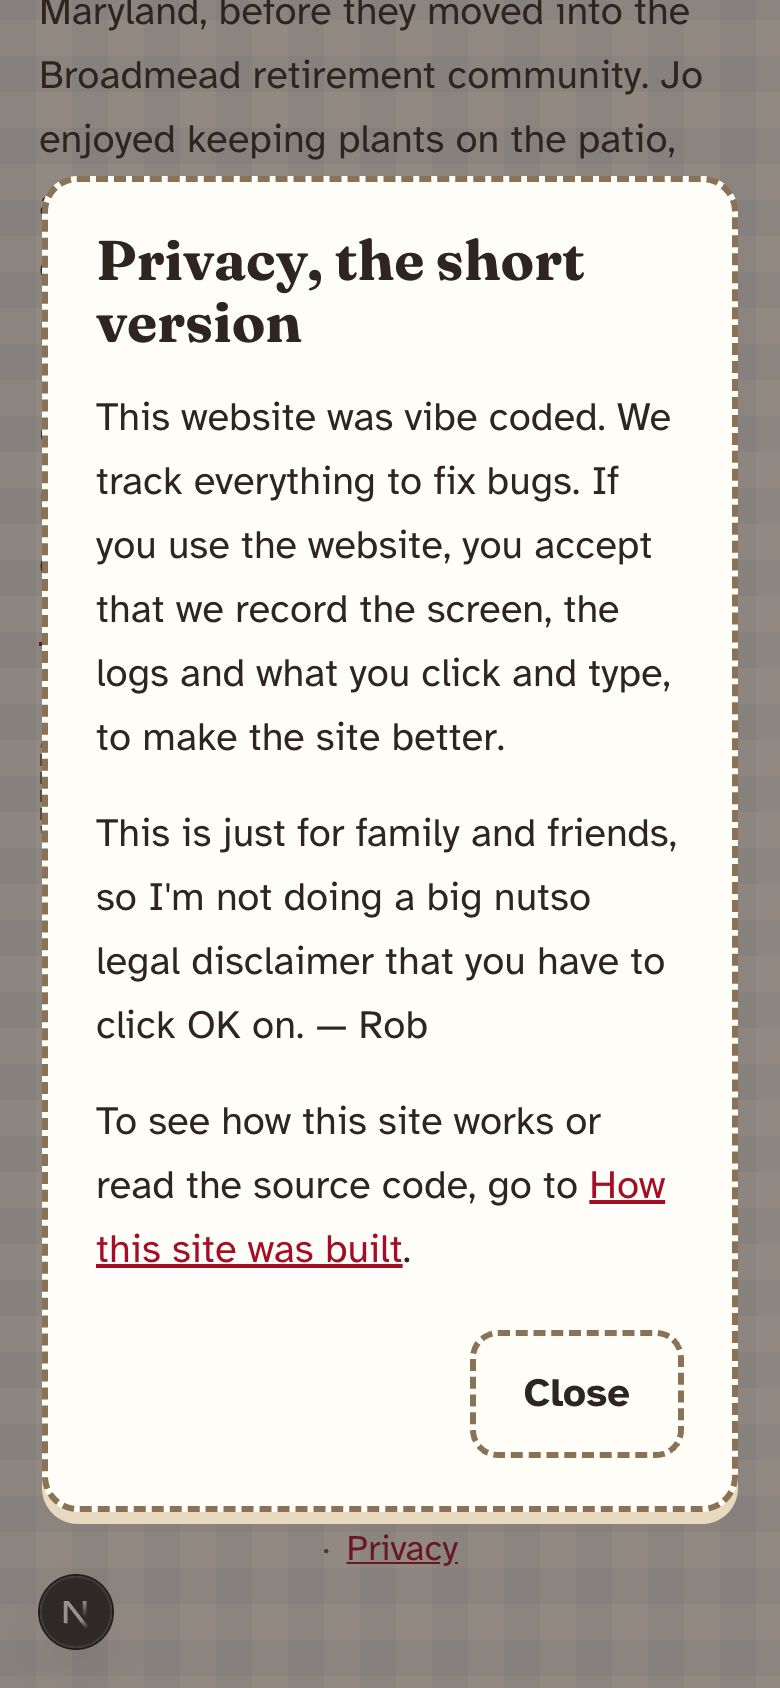
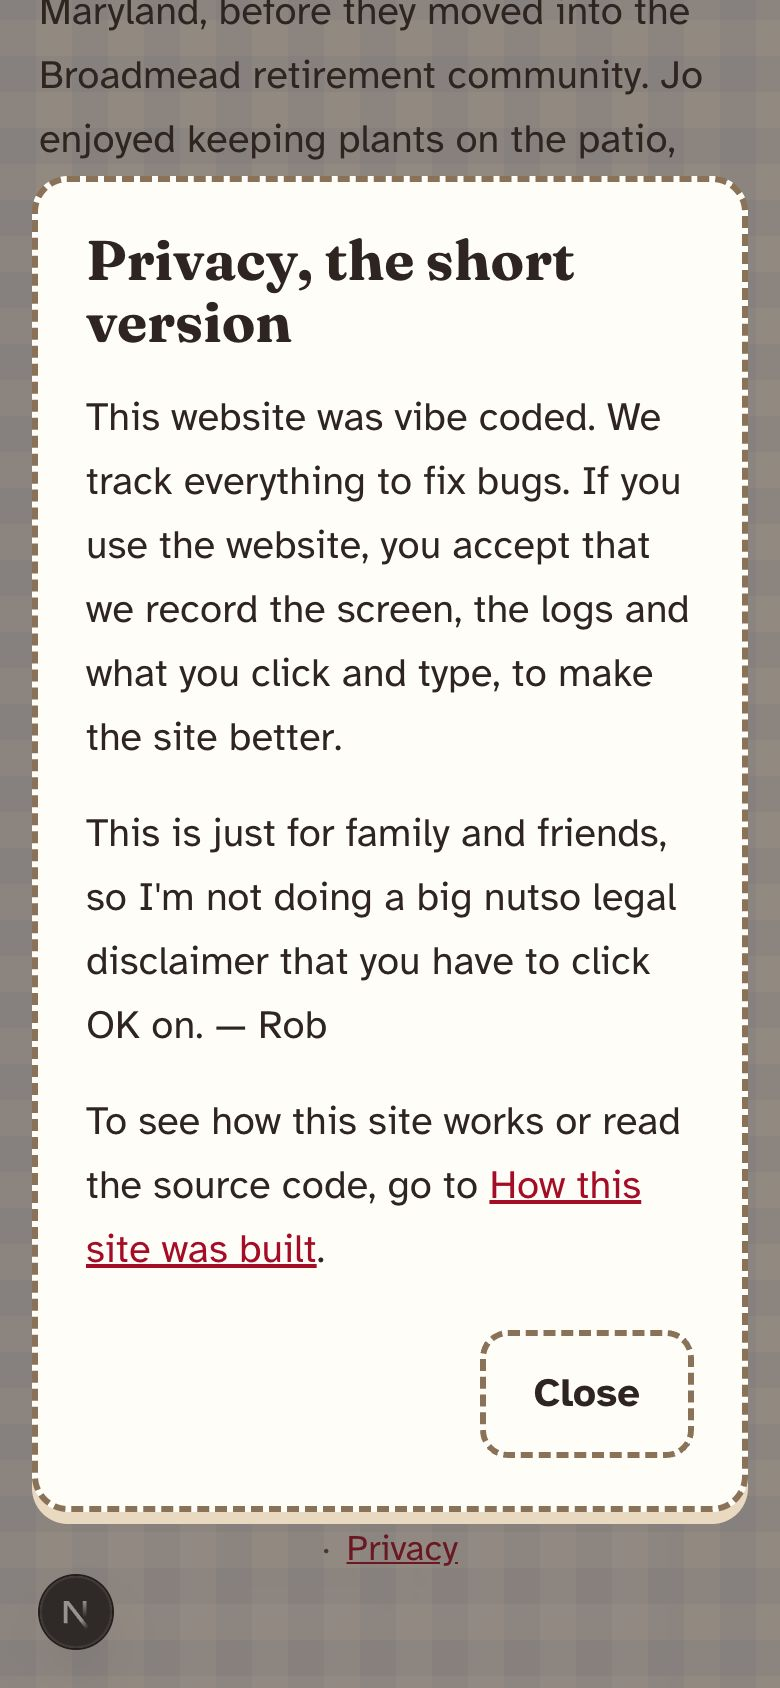
fix: regression review (note gutters, Safari gutter comment)
Fable 5.1 regression hunt on 518ec85: no serious regressions, two minor.

- privacy-note-client.tsx: max-w-none. The UA's dialog max-width
  (100% - 6px - 2em at the footer's 18px) beat the 16px gutters, leaving
  21px on phones. The smoke check now requires exactly 16px (57/57).
- globals.css: the scrollbar-gutter comment no longer claims the gap
  holds everywhere; WebKit ignores it, so Safari with always-visible
  scrollbars shifts ~15px while a dialog is open. Logged as a follow-up,
  with reduced motion for the zoom animations.
- Plan and evidence: follow-ups and the regression review recorded.

Claude-Session: https://claude.ai/code/session_014KCPxKQvRnqbvtanxBEh8b

diff --git a/app/_components/privacy-note-client.tsx b/app/_components/privacy-note-client.tsx
@@ -65,6 +65,8 @@ export function PrivacyNote() {
         Privacy
       </button>
       {/* m-auto: Preflight zeroes every margin, which would undo the browser's centring of a modal dialog [C9].
+          max-w-none: the browser's own dialog max-width (100% - 6px - 2em, at the footer's 18px) would otherwise win
+          over the 16px gutters the width asks for.
           open:flex, not flex: a display utility would override the browser's display:none for a closed dialog and
           show the note on the page. Inside, the text scrolls on its own above the Close row, so on a short screen
           Close stays in reach and nothing ever scrolls underneath it. */}
@@ -73,7 +75,7 @@ export function PrivacyNote() {
         aria-labelledby={titleId}
         onPointerDown={notePressed}
         onClick={closeOnBackdrop}
-        className="m-auto max-h-[calc(100%-32px)] w-[min(560px,calc(100%-32px))] overflow-hidden rounded-card border-[3px] border-dashed border-wood bg-paper p-0 text-left text-walnut shadow-card backdrop:bg-walnut/50 open:flex open:flex-col"
+        className="m-auto max-h-[calc(100%-32px)] w-[min(560px,calc(100%-32px))] max-w-none overflow-hidden rounded-card border-[3px] border-dashed border-wood bg-paper p-0 text-left text-walnut shadow-card backdrop:bg-walnut/50 open:flex open:flex-col"
       >
         <div className="flex min-h-0 flex-col gap-4 overflow-y-auto px-6 pb-4 pt-6 sm:px-8 sm:pt-8">
           <h2

diff --git a/app/globals.css b/app/globals.css
@@ -139,6 +139,8 @@
    shadow root, so this selector never sees it. Plan: docs/plans/2026-11-06-privacy-note-and-diagram-viewer.md [C12]. */
 html:has(dialog:modal) {
   overflow: hidden;
-  /* Where scrollbars take space (Windows, "always show scrollbars"), keep the gap so the page behind does not shift. */
+  /* Where scrollbars take space (Windows, "always show scrollbars"), Chromium and Firefox keep the gap so the page
+     behind does not shift. WebKit ignores scrollbar-gutter, so Safari with always-visible scrollbars still shifts by
+     the scrollbar width while a dialog is open (PR #61 follow-up; overlay scrollbars on macOS and iOS are unaffected). */
   scrollbar-gutter: stable;
 }

diff --git a/docs/plans/2026-11-06-privacy-note-and-diagram-viewer.md b/docs/plans/2026-11-06-privacy-note-and-diagram-viewer.md
@@ -371,3 +371,10 @@ What the round raised that we are not doing, and why, so later reviews need not 
 - **[Low] Other links under DESIGN.md's 44px touch minimum.** For example the footer's email link and the inline links on `/obituary` and `/how-it-was-built`. Needs a site-wide touch-target pass (DESIGN.md § 6); this PR only evened out the footer's link row.
 - **[Medium] No real-device coverage yet.** iPhone and iPad Safari: focus return after either dialog closes, `h-dvh` in full screen, pinch in full screen, and the note's scrolling text. Windows Firefox with classic scrollbars: the `w-full` fix was observed only in Playwright's WebKit with an injected 15px scrollbar, because headless browsers on macOS draw overlay scrollbars.
 - **[Low] Rapid taps on Zoom in grow slowly.** Each tap inside the 200ms zoom animation restarts from the mid-animation scale (the landscape check clicks at a human pace for this reason). Consider a shorter `animationTime` for button zooms (`zoomIn(step, animationTime)` in `diagram-viewer-client.tsx`).
+- **[Low] Safari with always-visible scrollbars shifts the page ~15px while a dialog is open** (regression review, Fable). WebKit ignores `scrollbar-gutter`, so `html:has(dialog:modal)` in `app/globals.css` hides the scrollbar without keeping its gap; `clientWidth` goes 1265 → 1280 in Playwright WebKit with a 15px scrollbar. Overlay scrollbars (default macOS, iOS) are unaffected. A fix would pad `<html>` by the measured scrollbar width while a dialog is open; check whether current Safari has shipped `scrollbar-gutter` first.
+- **[Low] Zoom animations ignore `prefers-reduced-motion`** (regression review). DESIGN.md says the card lift is the only animation; the 200ms zoom and the pan inertia in `diagram-viewer-client.tsx` still animate under reduced motion. Pass an `animationTime` of 0 (and disable `velocityAnimation`) when `matchMedia("(prefers-reduced-motion: reduce)")` matches.
+
+## Regression review (Fable 5.1, head 518ec85)
+
+No serious regressions. Checked: every page at 1280, 390 and 320px (footer, no horizontal overflow, focus return, scroll lock released), `app/global-error.tsx`, bundles (react-zoom-pan-pinch only on `/how-it-was-built`; the footer's shared client chunk is 8.5 KB gzip), static rendering, rapid clicks, resizing and rotation while full screen, Back while open, and reduced motion. Two minor findings: the Privacy note's UA `max-width` beat its 16px gutters (fixed with `max-w-none`; the smoke check now requires exactly 16px), and the Safari scrollbar shift above (follow-up).
+
